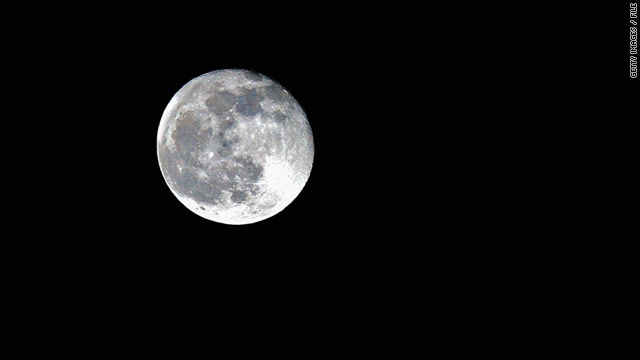
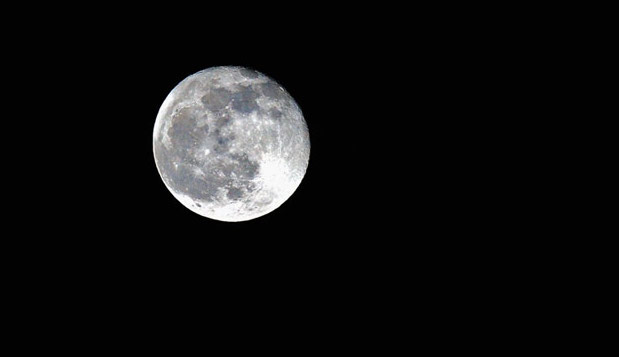
[BSK-1491] Test passes with changes in code and new images
Former-commit-id: 3bde64af1886b22e7f133eb221dad0b2a370a1f0
Former-commit-id: c6a93dcfd53d35094da2621cd8cc4c7e76a50e1c

Changed region(s): [[0.2456, 0.1849, 0.5218, 0.6471], [0.9822, 0.0, 1.0, 0.2157]]

diff --git a/src/fswAlgorithms/imageProcessing/limbFinding/limbFinding.cpp b/src/fswAlgorithms/imageProcessing/limbFinding/limbFinding.cpp
@@ -34,6 +34,7 @@
 LimbFinding::LimbFinding()
 {
     this->filename = "";
+    this->saveDir ="";
     this->saveImages = 0;
     this->blurrSize = 5;
     this->cannyThreshHigh = 200;
@@ -86,17 +87,16 @@ void LimbFinding::Reset(uint64_t CurrentSimNanos)
  */
 void LimbFinding::UpdateState(uint64_t CurrentSimNanos)
 {
-    std::string filenamePre;
-    int limbFound;
     CameraImageMsg imageBuffer;
     LimbOpNavMsg limbMsg;
     memset(&imageBuffer, 0x0, sizeof(CameraImageMsg));
     memset(&limbMsg, 0x0, sizeof(LimbOpNavMsg));
-    limbFound = 0;
 
     cv::Mat imageCV, blurred, edgeImage;
-    filenamePre = "PreprocessedImage_" + std::to_string(CurrentSimNanos*1E-9) + ".jpg";
-
+    if (this->saveDir != ""){
+        this->saveDir = this->saveDir + std::to_string(CurrentSimNanos*1E-9) + ".jpg";
+    }
+    
     /*! - Read in the bitmap*/
     SingleMessageHeader localHeader;
     if(this->imageInMsgName != "")
@@ -114,7 +114,7 @@ void LimbFinding::UpdateState(uint64_t CurrentSimNanos)
         std::vector<unsigned char> vectorBuffer((char*)imageBuffer.imagePointer, (char*)imageBuffer.imagePointer + imageBuffer.imageBufferLength);
         imageCV = cv::imdecode(vectorBuffer, cv::IMREAD_COLOR);
         if (this->saveImages == 1){
-            cv::imwrite(filenamePre, imageCV);
+            cv::imwrite(this->saveDir, imageCV);
         }
     }
     else{
@@ -124,12 +124,10 @@ void LimbFinding::UpdateState(uint64_t CurrentSimNanos)
     /*! - Greyscale the image */
     cv::cvtColor( imageCV, imageCV, CV_BGR2GRAY);
     /*! - Lightly blur it */
-//    cv::blur(imageCV, blurred, cv::Size(this->blurrSize,this->blurrSize) );
     cv::GaussianBlur(imageCV, blurred, cv::Size(this->blurrSize,this->blurrSize), 1);
     /*! - Apply the Canny Transform to find the limbPoints*/
     cv::Canny(blurred, edgeImage, this->cannyThreshLow, this->cannyThreshHigh,  3, true);
     if (cv::countNonZero(edgeImage)>0){
-        limbFound=1;
         std::vector<cv::Point2i> locations;
         cv::findNonZero(edgeImage, locations);
         for(size_t i = 0; i<locations.size(); i++ )
@@ -141,17 +139,13 @@ void LimbFinding::UpdateState(uint64_t CurrentSimNanos)
             limbMsg.pointSigmas[2*i+1] = 1;
         }
         limbMsg.numLimbPoints = locations.size()/2;
-    }
-    else{limbFound=0;}
-    
-    limbMsg.timeTag = this->sensorTimeTag;
-    limbMsg.cameraID = imageBuffer.cameraID;
-    /*!- If no limb points are found do not validate the image as a measurement */
-    if (limbFound >0){
         limbMsg.valid = 1;
         limbMsg.planetIds = 2;
     }
     
+    limbMsg.timeTag = this->sensorTimeTag;
+    limbMsg.cameraID = imageBuffer.cameraID;
+
     SystemMessaging::GetInstance()->WriteMessage(this->opnavLimbOutMsgID, CurrentSimNanos, sizeof(LimbOpNavMsg), reinterpret_cast<uint16_t *>(&limbMsg), this->moduleID);
 
     return;

diff --git a/src/fswAlgorithms/imageProcessing/limbFinding/_UnitTest/test_limbFinding.py b/src/fswAlgorithms/imageProcessing/limbFinding/_UnitTest/test_limbFinding.py
@@ -61,7 +61,7 @@ except ImportError:
 @pytest.mark.parametrize("image,         blur,    cannyLow,  cannyHigh, saveImage", [
                         ("MarsBright.jpg",    1,    100,       200,   False), #Mars image
                         ("MarsDark.jpg",      1,    100,       200,   False),  # Mars image
-                        ("moons.jpg",         4,    200,       300,   False) # Moon images
+                        ("moons.jpg",         3,    200,       300,   False) # Moon images
     ])
 
 # update "module" in this function name to reflect the module name
@@ -122,8 +122,8 @@ def limbFindingTest(show_plots, image, blur, cannyLow, cannyHigh, saveImage):
         reference = [187.0, 128.0]
         refPoints = 192.0
     if image == "moons.jpg":
-        reference = [221.0, 70.0]
-        refPoints = 232.0
+        reference = [213.0, 66.0]
+        refPoints = 263.0
     # Create input message and size it because the regular creator of that message
     # is not part of the test.
     inputMessageData = limbFinding.CameraImageMsg()
@@ -163,6 +163,9 @@ def limbFindingTest(show_plots, image, blur, cannyLow, cannyHigh, saveImage):
     for j in range(int(len(points[-1,1:])/2)):
         if points[-1,2*j+1]>1E-2:
             imageProcLimb.append((points[-1,2*j+1], points[-1,2*j+2]))
+
+        print(numPoints[-1,1])
+        print(imageProcLimb[0][:])
     draw_result.point(imageProcLimb, fill=128)
 
     # Save output image

diff --git a/src/fswAlgorithms/imageProcessing/limbFinding/limbFinding.h b/src/fswAlgorithms/imageProcessing/limbFinding/limbFinding.h
@@ -60,7 +60,8 @@ public:
     std::string filename;                //!< Filename for module to read an image directly
     std::string opnavLimbOutMsgName;  //!< The name of the Limb output message
     std::string imageInMsgName;          //!< The name of the ImageFswMsg output message
-    
+    std::string saveDir;                //!< Directory to save images to
+
     uint64_t sensorTimeTag;              //!< [ns] Current time tag for sensor out
     /* OpenCV specific arguments needed for Limb finding*/
     int32_t blurrSize;                   //!< [px] Size of the blurring box in pixels
